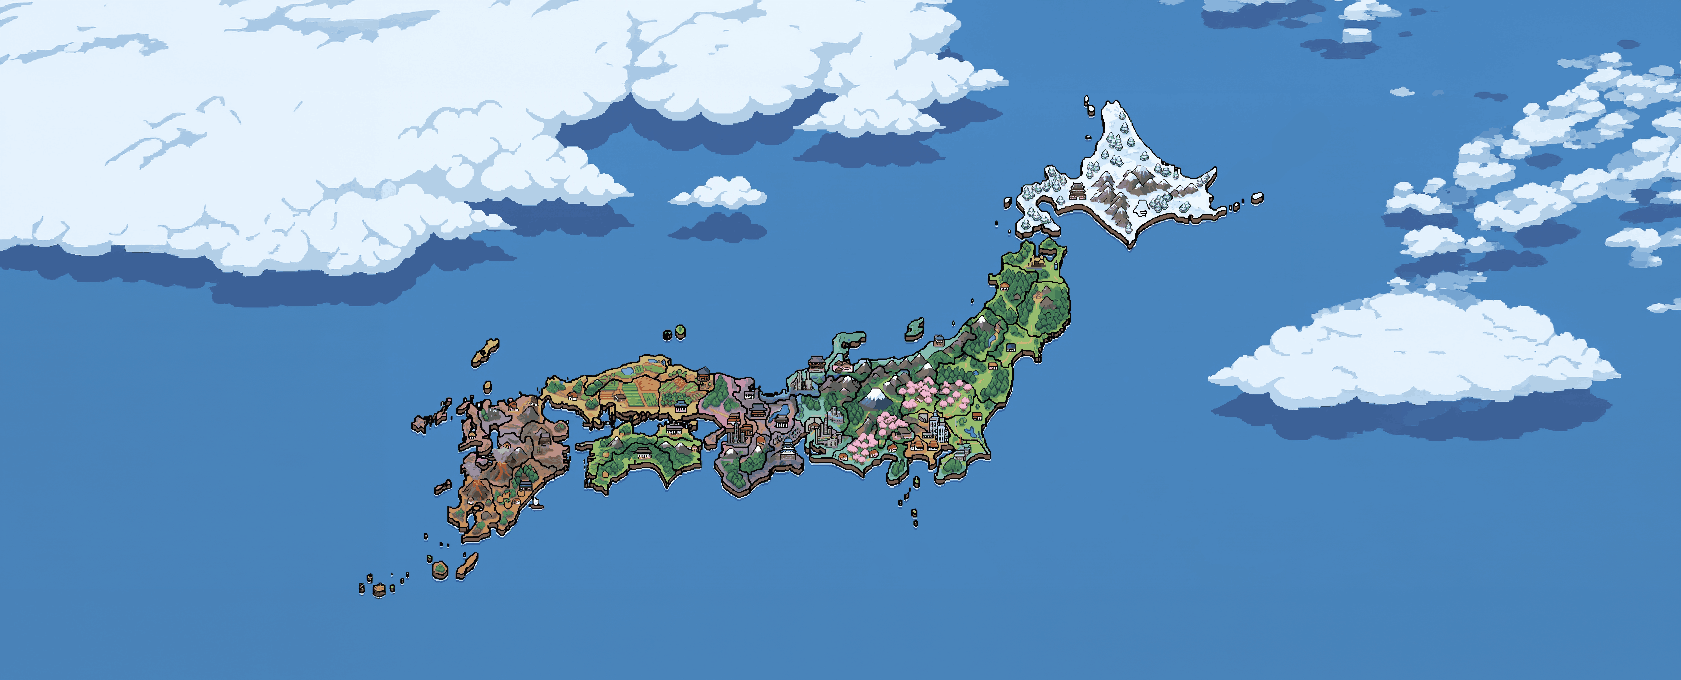
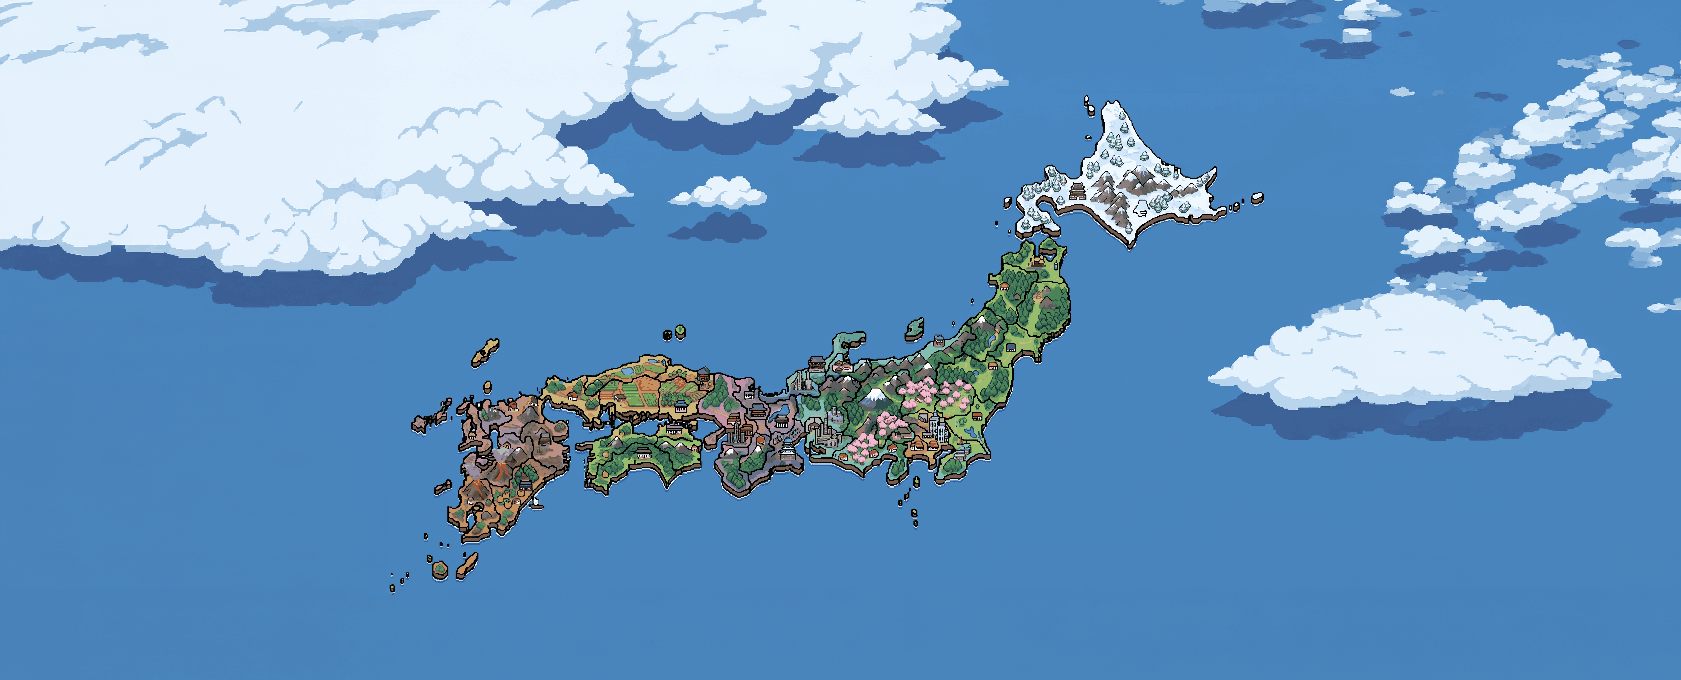
Граница Нагано/Сидзуоки, карта без лишних островов, вопрос по кнопке «Далее»
- build-map: «cuts» в map-seeds.json — дорисовать границу, спрятанную под деревьями
- вопрос ведёт ведущий: интро → текст без ответов → ответы и таймер → закрыть

Changed region(s): [[0.2165, 0.8338, 0.2475, 0.8956], [0.464, 0.5559, 0.4949, 0.5868]]

diff --git a/src/host/engine.ts b/src/host/engine.ts
@@ -401,7 +401,7 @@ export class GameEngine {
       this.log(`${p.name} высаживается: ${prefName(code)}`);
       this.io.fx?.('land', { pid, code });
       this.setStage({ t: 'prefIntro', code, pid });
-      await this.sleep(epoch, PREF_INTRO_MS);
+      await this.sleep(epoch, this.hostPaced ? 36e5 : PREF_INTRO_MS);
       // первый вопрос — сразу на месте высадки
       await this.gate(epoch);
       await this.prefQuestion(epoch, p, code);
@@ -474,7 +474,7 @@ export class GameEngine {
     if (firstVisit) {
       await this.sleep(epoch, 700);
       this.setStage({ t: 'prefIntro', code: to, pid });
-      await this.sleep(epoch, PREF_INTRO_MS);
+      await this.sleep(epoch, this.hostPaced ? 36e5 : PREF_INTRO_MS);
     }
     await this.gate(epoch);
 
@@ -761,18 +761,26 @@ export class GameEngine {
 
   private async ask(epoch: number, q: Question, context: QContext, title: string, participants: string[], timeSec: number, removed: Record<string, number[]> = {}, pref: number | null = null): Promise<Record<string, number | null>> {
     const n = ++this.sec.qn;
-    const startAt = this.now + LEAD;
-    const deadline = startAt + timeSec * 1000;
     this.curCorrect = q.correct;
+    const reading = this.hostPaced;
     const pq: PublicQuestion = {
       qid: q.id, n, context, title, text: q.text, media: q.media, answers: q.answers, answerImages: !!q.answerImages,
-      topic: q.topic, special: !!q.special, startAt, deadline, participants, answered: [], removed, revealed: false,
+      topic: q.topic, special: !!q.special, startAt: 0, deadline: 0, participants, answered: [], removed, revealed: false,
+      ...(reading ? { reading } : {}),
       ...(pref ? { pref } : {}),
     };
     this.s.q = pq;
     this.choices = {};
     this.setStage({ t: 'question' });
     this.io.fx?.('question', pq);
+    // ведущий читает вопрос вслух; ответы и таймер — по «Далее»
+    if (reading) {
+      await this.sleep(epoch, 36e5);
+      delete pq.reading;
+    }
+    pq.startAt = this.now + LEAD;
+    const deadline = pq.deadline = pq.startAt + timeSec * 1000;
+    this.emit();
     await new Promise<void>((resolve) => {
       const done = () => { clearT(t); this.skipCbs.delete(done); this.qDone = null; resolve(); };
       const t = setT(done, deadline - this.now + ANSWER_GRACE);
@@ -787,9 +795,14 @@ export class GameEngine {
 
   private choices: Record<string, number> = {};
 
+  /** вопрос ведёт ведущий кнопкой «Далее» (по умолчанию да) */
+  private get hostPaced() {
+    return this.s.settings.hostPaced !== false;
+  }
+
   private onAnswer(m: Extract<InputMsg, { t: 'answer' }>) {
     const q = this.s.q;
-    if (!q || q.revealed || q.n !== m.n || !q.participants.includes(m.pid) || m.pid in this.choices) return;
+    if (!q || q.revealed || q.reading || q.n !== m.n || !q.participants.includes(m.pid) || m.pid in this.choices) return;
     if (m.choice < 0 || m.choice > 3 || q.removed[m.pid]?.includes(m.choice)) return;
     const t = this.now;
     // ответ засчитывается по времени нажатия (в часах хоста), с защитой от подделки
@@ -811,7 +824,7 @@ export class GameEngine {
     this.emit();
     this.io.fx?.('reveal', q);
     // без авто-перехода ответ висит, пока ведущий не нажмёт «Далее»
-    await this.sleep(epoch, this.s.settings.autoAdvance ? this.s.settings.revealMs : 36e5);
+    await this.sleep(epoch, this.s.settings.autoAdvance && !this.hostPaced ? this.s.settings.revealMs : 36e5);
     this.s.q = null;
     this.emit();
   }
@@ -1027,7 +1040,7 @@ export class GameEngine {
       });
     }
     const q = this.s.q;
-    if (st.t === 'question' && q && !q.revealed) {
+    if (st.t === 'question' && q && !q.revealed && !q.reading) {
       for (const id of q.participants) if (isBot(id)) {
         const n = q.n;
         this.botLater('ans' + id + n, Math.max(0, q.startAt - this.now) + 1500 + randInt(7000), () => {

diff --git a/src/admin/main.tsx b/src/admin/main.tsx
@@ -331,6 +331,7 @@ function SettingsEditor({ settings, onSave }: { settings: Settings; onSave: (s: 
             <input class="inp-s num" type="number" value={getPath(s, path)} onInput={(e) => upd((c) => setPath(c, path, Number((e.target as HTMLInputElement).value)))} />
           </label>
         ))}
+        <label class="set-row"><span>Вопрос ведёт ведущий кнопкой «Далее» (интро → текст → ответы и таймер → закрыть)</span><input type="checkbox" checked={s.hostPaced !== false} onChange={(e) => upd((c) => (c.hostPaced = (e.target as HTMLInputElement).checked))} /></label>
         <label class="set-row"><span>Авто-переход после показа ответа</span><input type="checkbox" checked={s.autoAdvance} onChange={(e) => upd((c) => (c.autoAdvance = (e.target as HTMLInputElement).checked))} /></label>
         <label class="set-row"><span>Ритм-баттл в дуэлях</span><input type="checkbox" checked={s.rhythmInDuel} onChange={(e) => upd((c) => (c.rhythmInDuel = (e.target as HTMLInputElement).checked))} /></label>
         <label class="set-row"><span>Золотая ячейка (настоящий приз) в призовой машине</span><input type="checkbox" checked={s.ring.physicalPrize} onChange={(e) => upd((c) => (c.ring.physicalPrize = (e.target as HTMLInputElement).checked))} /></label>
@@ -393,7 +394,7 @@ function Remote() {
       </div>
       <div class="row wrap remote-btns">
         {s?.phase === 'lobby' && <button class="btn primary" onClick={() => ctl('start')}>▶ Начать игру</button>}
-        <button class="btn primary" onClick={() => ctl('next')}>⏭ Далее</button>
+        <button class="btn primary" onClick={() => ctl('next')}>⏭ {nextLabel(s)}</button>
         <button class="btn" onClick={() => ctl('pause')}>{s?.paused ? '▶ Продолжить' : '⏸ Пауза'}</button>
         {s?.phase === 'lobby' && <button class="btn" onClick={() => ctl('addBot')}>+ бот</button>}
         <button class="btn" onClick={() => ctl('reload')}>🔄 Обновить вопросы и настройки в игре</button>
@@ -438,3 +439,13 @@ function Remote() {
 
 // иконки — PNG из src/img/icons, читаются до первого рендера
 void loadIcons().then(() => render(<App />, document.getElementById('app')!));
+
+/** что сделает «Далее» сейчас — подсказка ведущему на пульте */
+function nextLabel(s: GameState | null) {
+  if (!s || s.settings.hostPaced === false) return 'Далее';
+  const st = s.stage;
+  if (st.t === 'prefIntro') return 'Далее: показать вопрос';
+  if (st.t === 'question' && s.q?.reading) return 'Далее: ответы и таймер';
+  if (st.t === 'question' && s.q?.revealed) return 'Далее: закрыть вопрос';
+  return 'Далее';
+}

diff --git a/src/play/PlayApp.tsx b/src/play/PlayApp.tsx
@@ -311,8 +311,8 @@ function QuestionView({ client, s, q, me }: { client: GameClient; s: GameState; 
     return () => clearInterval(t);
   }, []);
   const removed = q.removed[me.id] ?? [];
-  const expired = client.hostNow() > q.deadline;
-  const locked = choice !== null || expired || q.revealed || q.answered.includes(me.id);
+  const expired = !q.reading && client.hostNow() > q.deadline;
+  const locked = !!q.reading || choice !== null || expired || q.revealed || q.answered.includes(me.id);
   const pickAns = (i: number) => {
     if (locked || removed.includes(i)) return;
     setChoice(i);
@@ -328,12 +328,13 @@ function QuestionView({ client, s, q, me }: { client: GameClient; s: GameState; 
     {bg && <img class="q-bg" src={bg} alt="" draggable={false} />}
     <div class={'question scroll pad col' + (q.revealed ? (ok ? ' ok' : ' bad') : '') + (bg ? ' has-bg' : '')}>
       <div class="q-title">{q.title}{q.special ? ' · 💥' : ''}</div>
-      {!q.revealed && <TimerBar start={q.startAt} end={q.deadline} now={() => client.hostNow()} />}
+      {!q.revealed && !q.reading && <TimerBar start={q.startAt} end={q.deadline} now={() => client.hostNow()} />}
       {q.media?.type === 'image' && <img class="q-img" src={q.media.url} alt="" />}
       {q.media?.type === 'audio' && <div class="q-tv">🎵 Слушай на ТВ</div>}
       {q.media?.type === 'video' && <div class="q-tv">🎬 Смотри на ТВ</div>}
       <div class="q-text">{q.text}</div>
-      <div class={imgs ? 'q-grid' : 'q-list'}>
+      {q.reading && <div class="center muted">Слушайте вопрос — варианты появятся следом</div>}
+      {!q.reading && <div class={imgs ? 'q-grid' : 'q-list'}>
         {q.answers.map((a, i) => {
           const gone = removed.includes(i);
           let cls = 'q-btn';
@@ -348,7 +349,7 @@ function QuestionView({ client, s, q, me }: { client: GameClient; s: GameState; 
             </button>
           );
         })}
-      </div>
+      </div>}
       {!q.revealed && choice !== null && <div class="center muted">Ответ принят. Ждём остальных…</div>}
       {!q.revealed && choice === null && expired && <div class="center muted">Время вышло</div>}
       {q.revealed && (

diff --git a/src/tv/TvApp.tsx b/src/tv/TvApp.tsx
@@ -422,7 +422,7 @@ function QuestionPanel({ s, q }: { s: GameState; q: PublicQuestion }) {
         {q.media?.type === 'audio' && <audio class="qaudio" src={resolveMedia(q.media.url)} autoPlay controls />}
         {q.media?.type === 'video' && <video class="qmedia" src={resolveMedia(q.media.url)} autoPlay playsInline />}
         <div class="qtext">{q.text}</div>
-        <div class={'qanswers' + (imgs ? ' imgs' : '')}>
+        {!q.reading && <div class={'qanswers' + (imgs ? ' imgs' : '')}>
           {q.answers.map((a, i) => {
             const cls = q.revealed ? (i === q.correct ? ' correct' : choosers(i).length ? ' wrong' : ' dim') : '';
             return (
@@ -437,8 +437,8 @@ function QuestionPanel({ s, q }: { s: GameState; q: PublicQuestion }) {
               </div>
             );
           })}
-        </div>
-        {!q.revealed && <TimerBar start={q.startAt} end={q.deadline} now={now} big />}
+        </div>}
+        {!q.revealed && !q.reading && <TimerBar start={q.startAt} end={q.deadline} now={now} big />}
         {!duel && <div class="qparts">
           {q.participants.map((id) => {
             const p = s.players[id];

diff --git a/src/shared/types.ts b/src/shared/types.ts
@@ -79,6 +79,8 @@ export interface PublicQuestion {
   answerImages: boolean;
   topic: TopicId;
   special: boolean;
+  /** ведущий читает вопрос вслух: текст уже на экране, ответов и таймера ещё нет */
+  reading?: boolean;
   startAt: number; // время хоста
   deadline: number; // время хоста
   participants: string[];
@@ -150,6 +152,8 @@ export interface Settings {
   landingTime: number;
   revealMs: number;
   autoAdvance: boolean;
+  /** вопрос ведёт ведущий кнопкой «Далее»: интро → текст (читает вслух) → ответы и таймер → закрыть */
+  hostPaced?: boolean;
   baseStrength: number;
   startHp: number;
   specialPower: number;

diff --git a/src/shared/settings.ts b/src/shared/settings.ts
@@ -16,6 +16,7 @@ export const DEFAULT_SETTINGS: Settings = {
   landingTime: 30,
   revealMs: 4500,
   autoAdvance: true,
+  hostPaced: true,
   baseStrength: 1,
   startHp: 10,
   specialPower: 5,

diff --git a/scripts/build-map.py b/scripts/build-map.py
@@ -15,6 +15,7 @@
 #  5. пишет src/map/assets/regions.png (R = код*5, 0 — море), src/map/assets/map.png (пиксель-арт) и
 #     обновляет anchor/bb/size в src/map/japan.json (координаты — пиксели пиксель-арта).
 # Если префектура легла не туда — поправьте/добавьте точки в map-seeds.json и перезапустите.
+# Если граница на рисунке не видна (под сакурой и т.п.) — дорисуйте её ломаной в "cuts" того же файла.
 # --debug сохраняет картинку с границами и номерами для проверки.
 # Нужны: pillow, numpy, scipy, scikit-image.
 import json, sys
@@ -74,7 +75,17 @@ thick = nd.binary_opening(ink, np.ones((3, 3), bool))
 elev = nd.gaussian_filter(thick.astype(float), 2.0) * 1000 + (255 - lum) * 0.05
 
 # 3. водораздел от зёрен
-seeds = {int(k): v for k, v in json.loads(SEEDS.read_text(encoding='utf-8')).items()}
+seeds_raw = json.loads(SEEDS.read_text(encoding='utf-8'))
+seeds = {int(k): v for k, v in seeds_raw.items() if k.isdigit()}
+# «cuts» — границы, которых на рисунке не видно (спрятаны под деревьями и т.п.): ломаные в пикселях map.png
+if seeds_raw.get('cuts'):
+    cm = Image.new('L', (W, H), 0)
+    cd = ImageDraw.Draw(cm)
+    for line in seeds_raw['cuts']:
+        cd.line([tuple(pt) for pt in line], fill=255, width=4)
+    cut = np.asarray(cm) > 0
+    thick |= cut
+    elev = np.maximum(elev, np.where(cut, 1e6, 0))
 mk = np.zeros((H, W), np.int32)
 R = 12  # зерно сдвигается в самую «светлую» точку рядом, чтобы не попасть на линию или иконку
 for code, pts in seeds.items():
